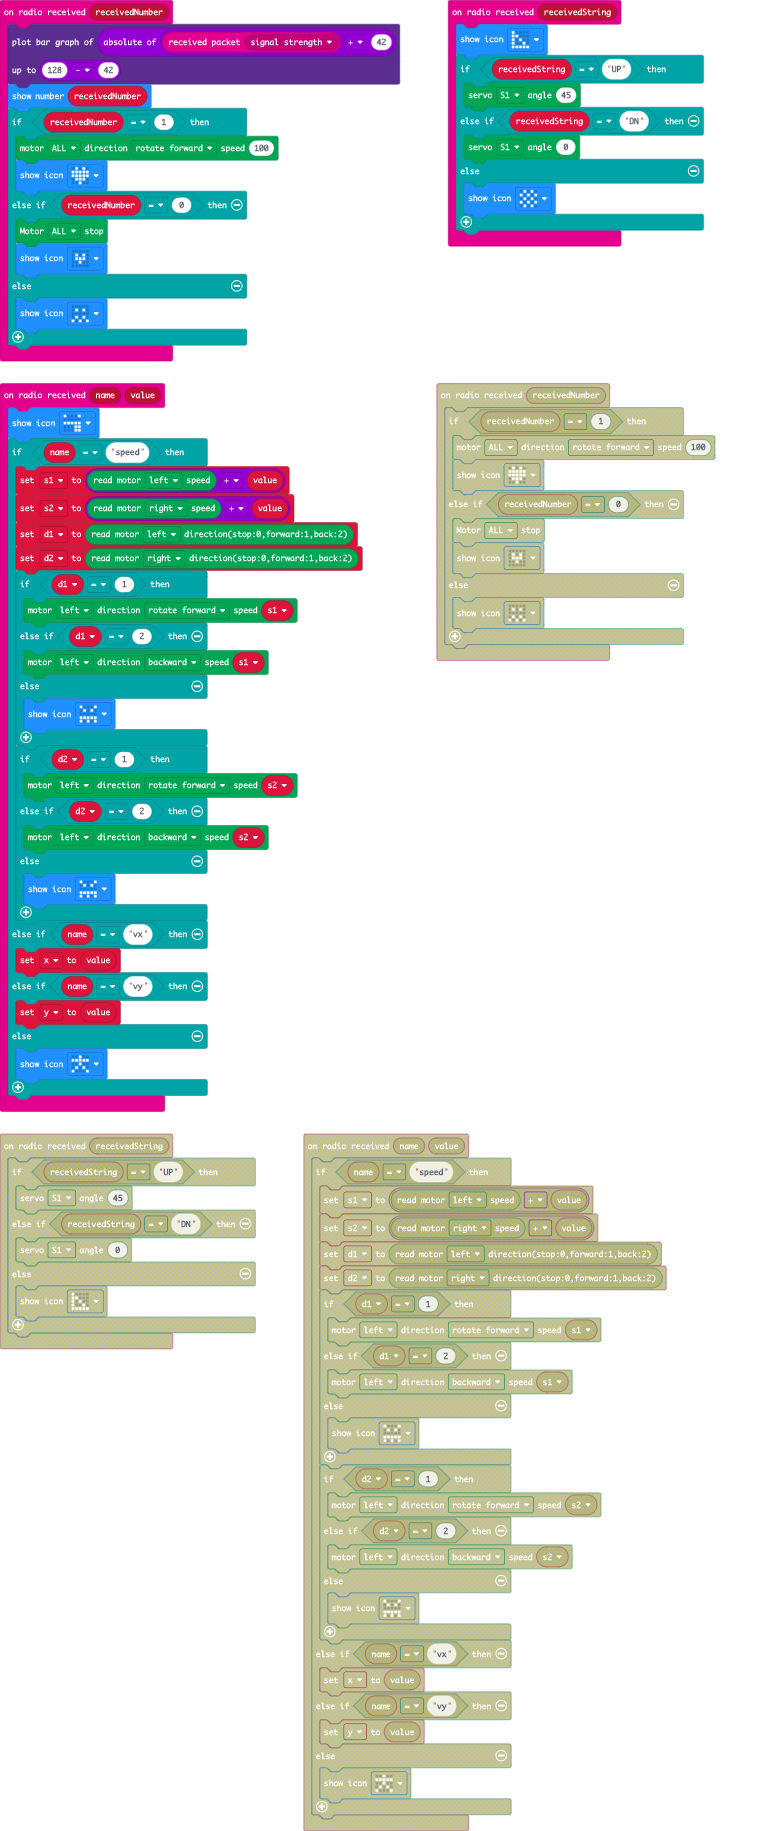
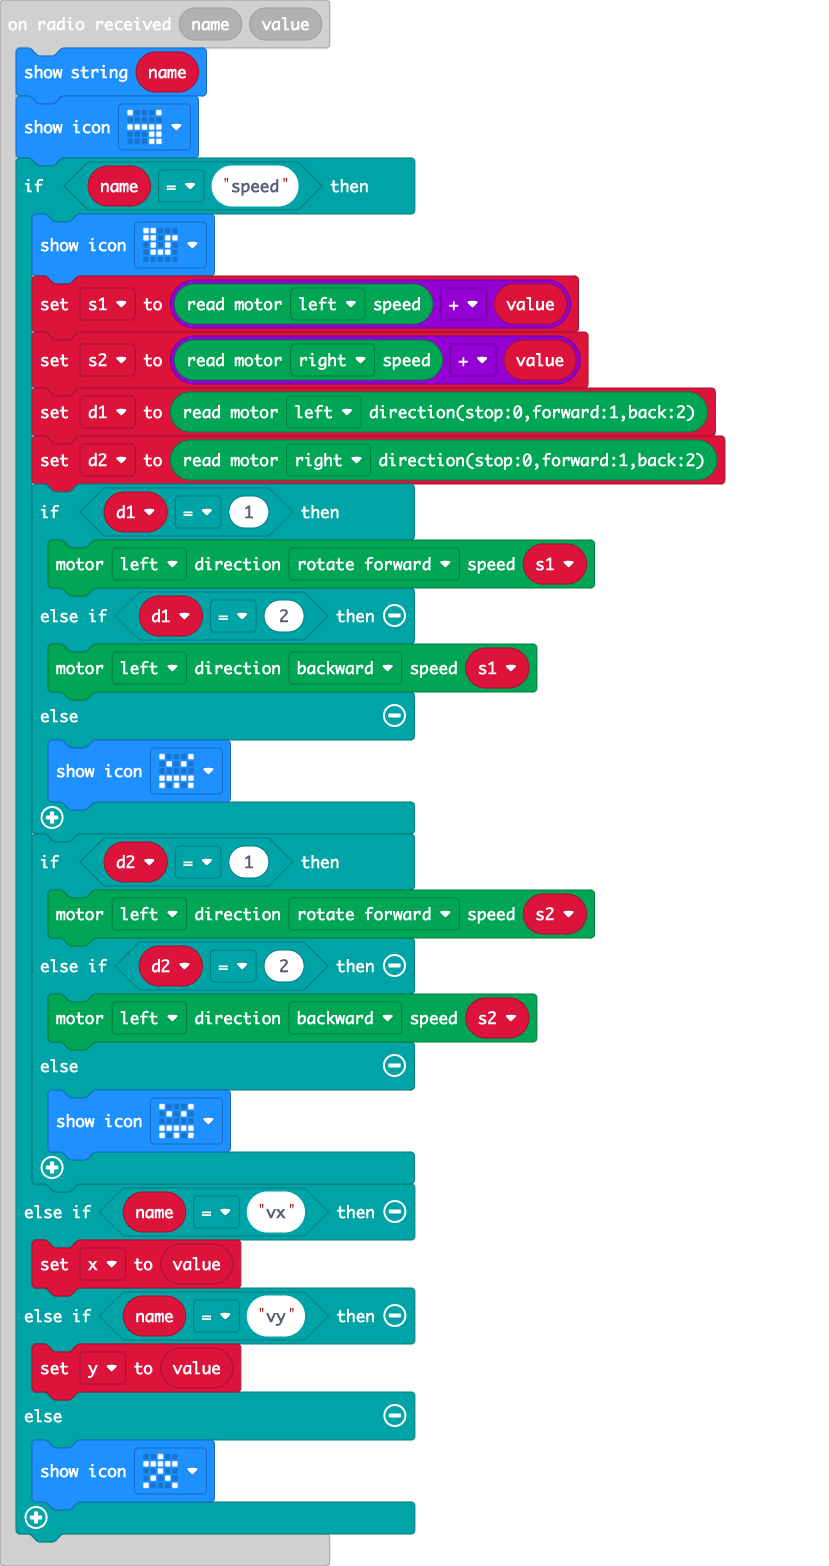
Update main.blocks, main.ts

diff --git a/main.ts b/main.ts
@@ -31,8 +31,10 @@ input.onButtonPressed(Button.B, function () {
     DFRobotMaqueenPlus.mototStop(Motors.ALL)
 })
 radio.onReceivedValue(function (name, value) {
+    basic.showString(name)
     basic.showIcon(IconNames.Silly)
     if (name == "speed") {
+        basic.showIcon(IconNames.Snake)
         s1 = DFRobotMaqueenPlus.readSpeed(Motors1.M1) + value
         s2 = DFRobotMaqueenPlus.readSpeed(Motors1.M2) + value
         d1 = DFRobotMaqueenPlus.readDirection(Motors1.M1)
